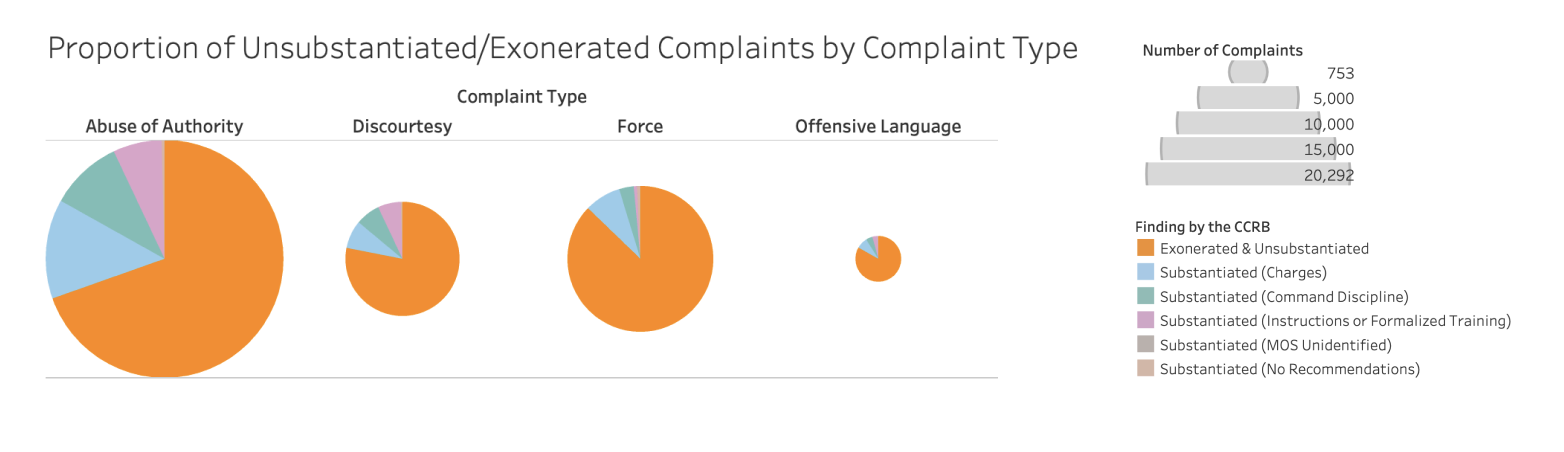
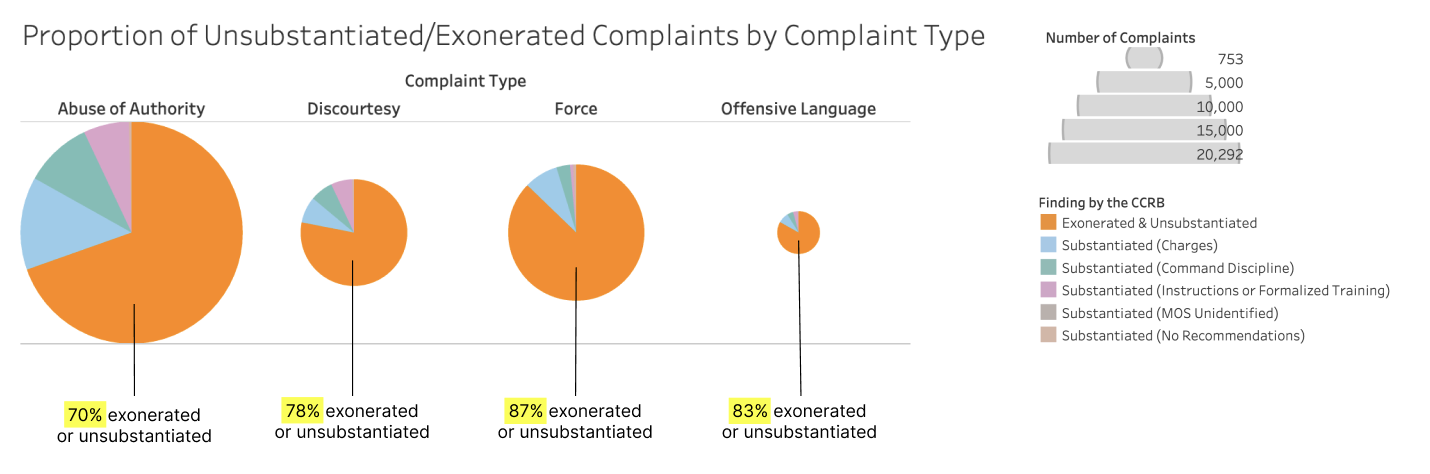
update a4

diff --git a/A4_report.html b/A4_report.html
@@ -77,7 +77,7 @@
     <section>
       <h2>Final Reflection</h2>
 
-      <p>Overall, I enjoyed exploring different ways to convey wildly opposing conclusions using the same set of data. I found it a bit challenging to choose different visualization formats  (pie chart, line graph, etc.) that would help me best craft my supporting and opposing arguments. On the other hand, I found it easy to exclude particular data points and group categories together in order to emphasize the trends that I was seeking to convey. I was surprised that I was able to easily make up justifications to myself for some of these more deceptive design decisions.  
+      <p>Overall, I enjoyed exploring different ways to convey wildly opposing conclusions using the same set of data. I found it a bit challenging to choose different visualization formats  (pie chart, line graph, etc.) that would help me best craft my supporting and opposing arguments. On the other hand, I found it easy to exclude particular data points and group categories together in order to emphasize the trends that I was seeking to convey. I was surprised that I was able to easily make up justifications to myself for some of these more deceptive design decisions. Additionally, I enjoyed adding annotations to underscore my main points even more clearly. 
 	  </p>
 	  <p>
 		After completing this assignment, I now have a more nuanced understanding of what an “ethical” visualization entails. I think that in order for a visualization to be ethical, the intentions during the design process are highly influential, and any changes, data transformations, and design decisions need to be clearly communicated and/or explained. However, while some design decisions can be firmly deceptive (like excluding data without mentioning it) and some can be earnest (like redundant encoding), I think it’s difficult to draw a clear line between ethical and unethical for an overall visualization because all design decisions are informed and influenced by our personal perspectives and biases. Instead, I think it’s crucial to focus on being transparent and communicating choices and the intentions behind them to the viewer, and letting them draw their own conclusions.
